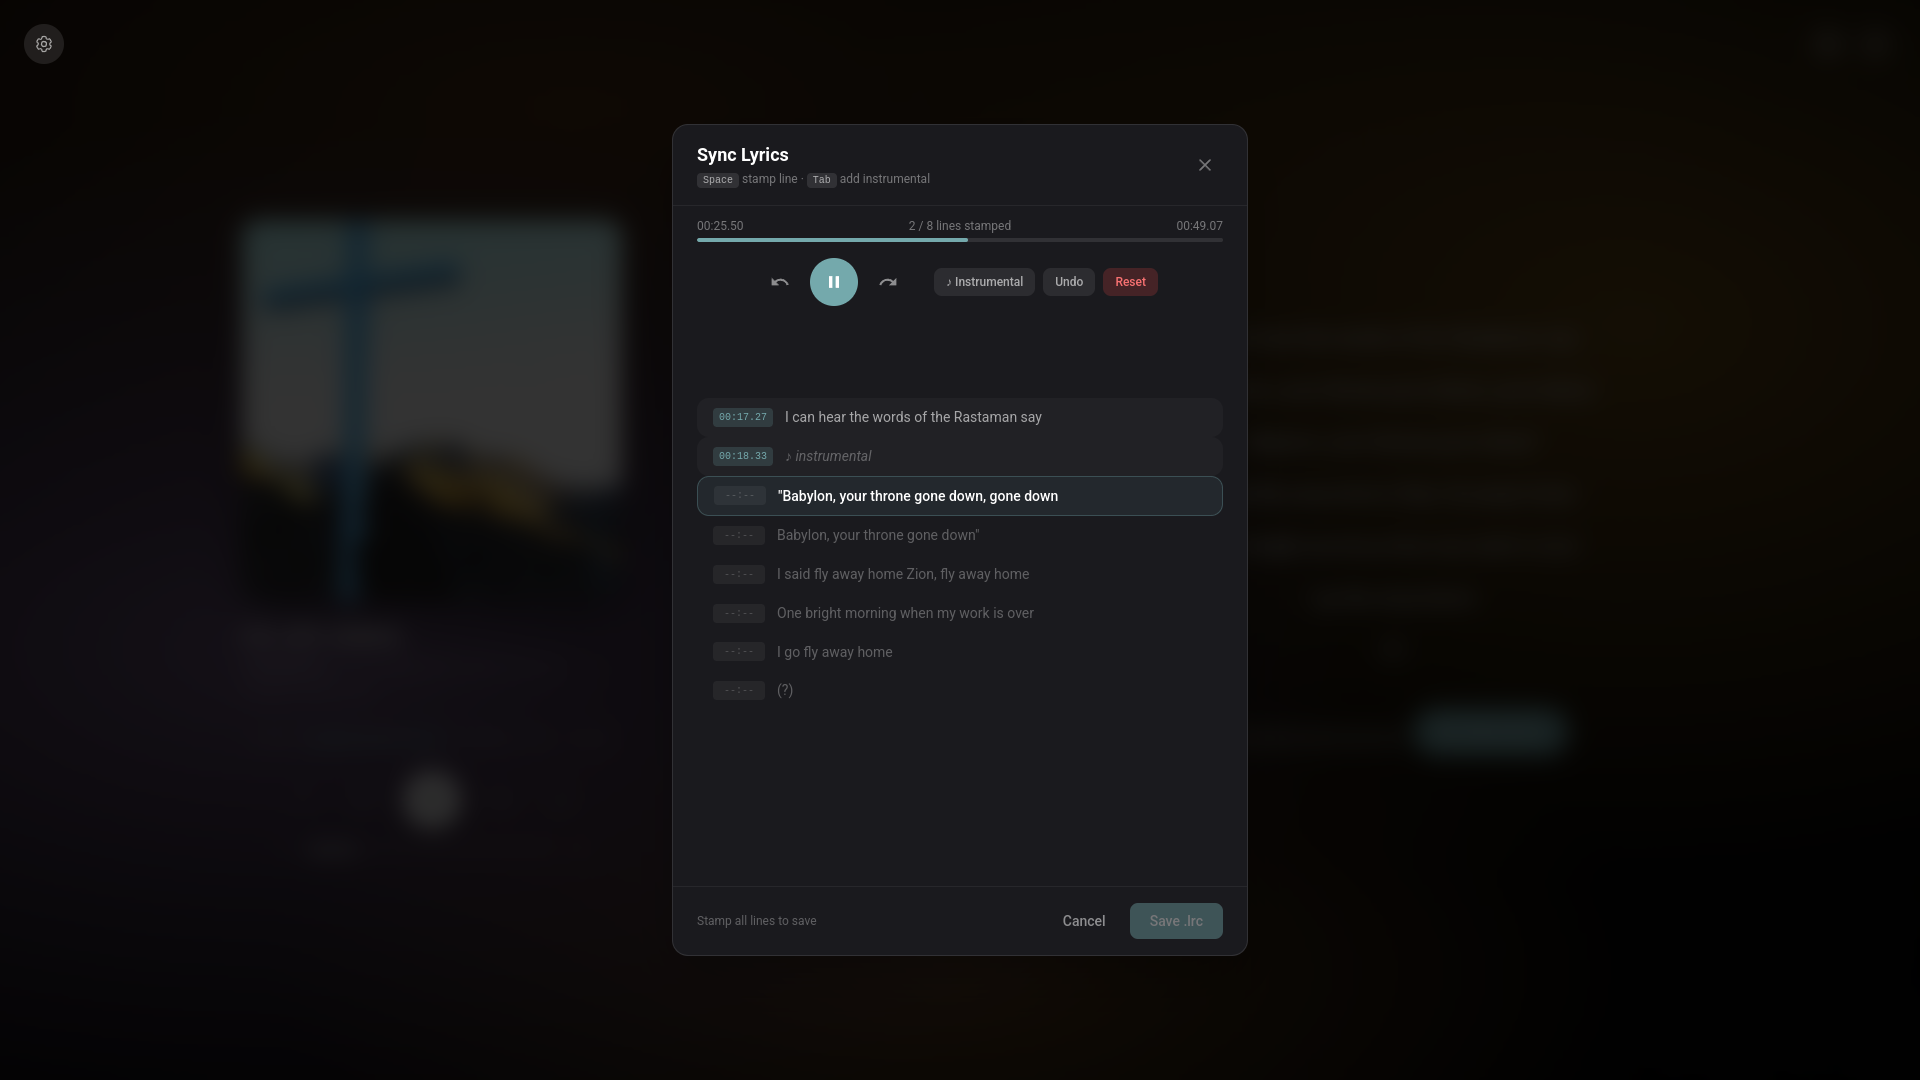
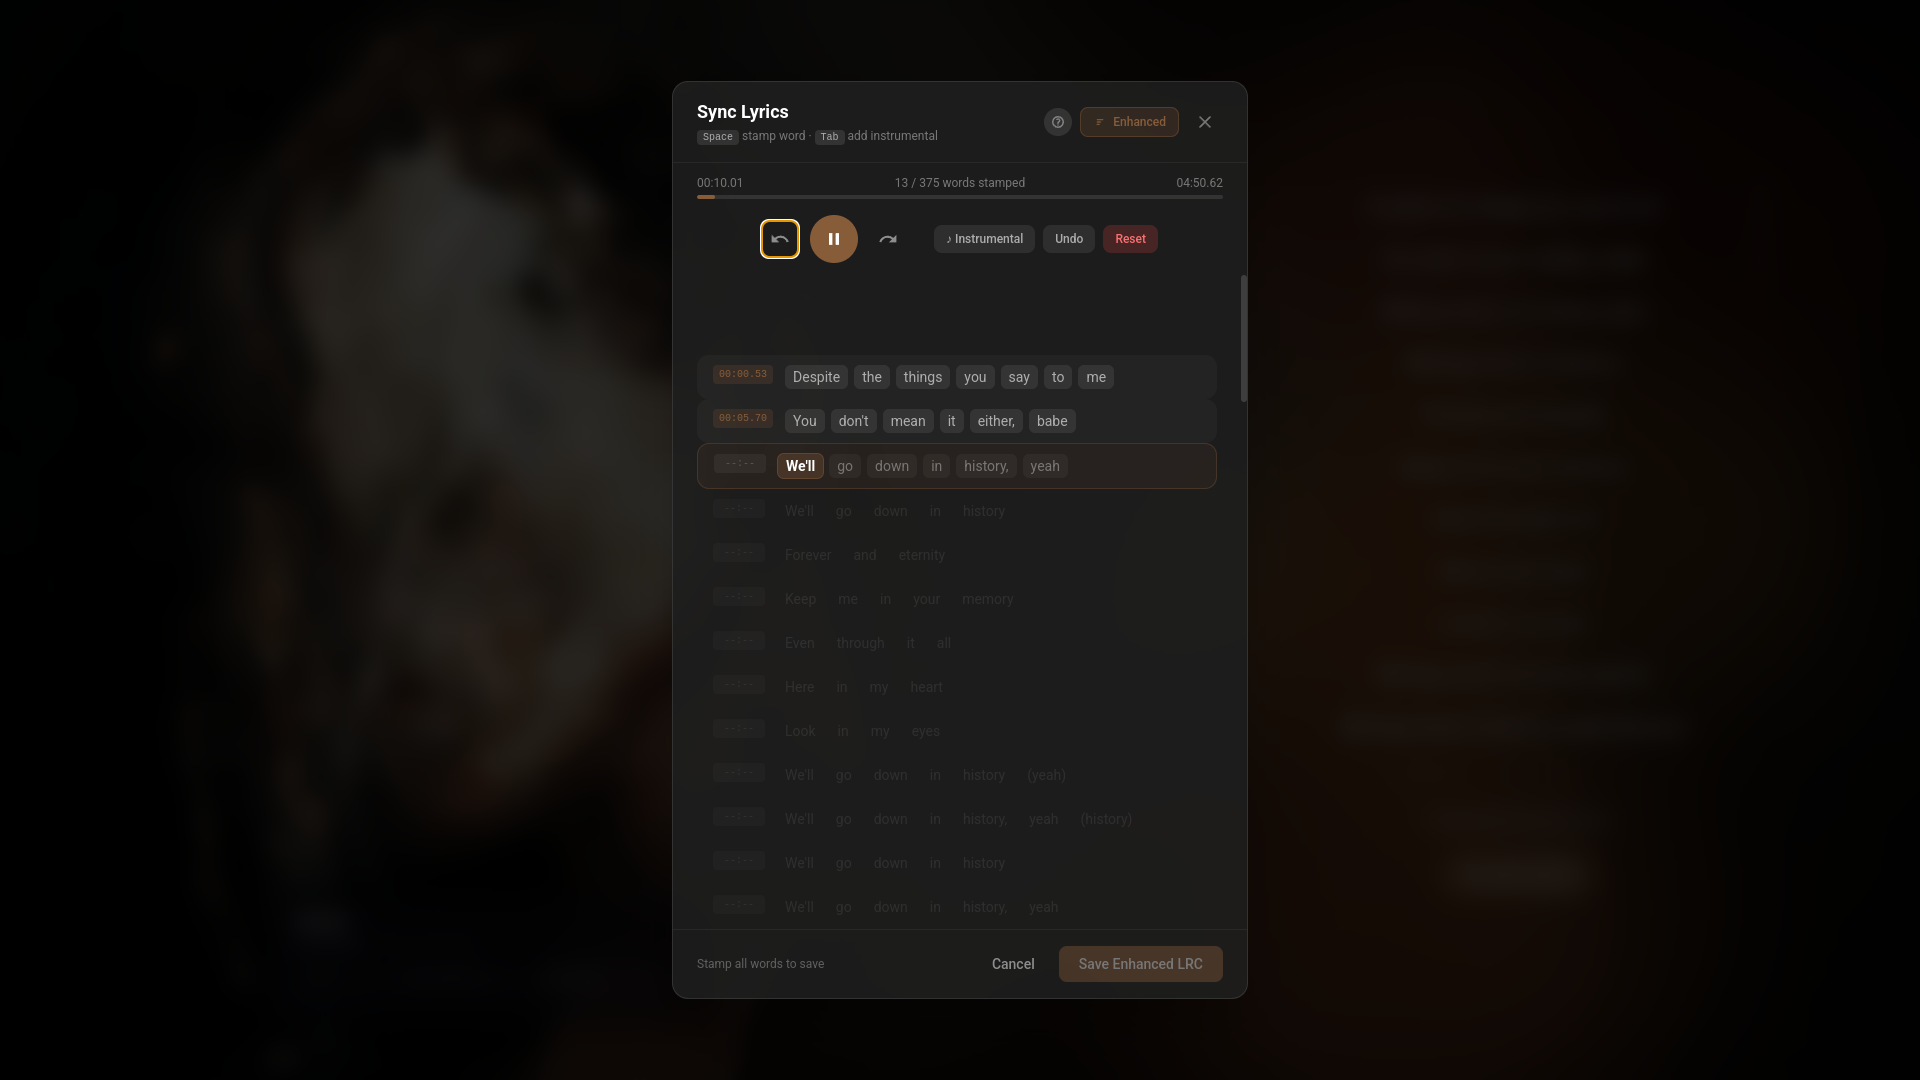
updated documentation

diff --git a/docs/plugins.md b/docs/plugins.md
@@ -192,17 +192,21 @@ Control and query playback state.
 | `addToQueue(tracks)` | `void` | Append tracks to the end of the queue |
 | `playNext(tracks)` | `void` | Insert tracks after the current track |
 | `playLater(tracks)` | `void` | Append tracks to the end of the queue |
+| `registerUrlResolver(fn)` | `void` | Register a function `(track) => Promise<string \| null>` that resolves a playback URL for a track (e.g. for remote/streaming sources) |
+| `unregisterUrlResolver(fn)` | `void` | Remove a previously registered URL resolver |
 
 ### aurora.library
 
-Access the music library (read-only).
+Access the music library.
 
-| Property | Type | Description |
+| Property / Method | Type | Description |
 |---|---|---|
 | `tracks` | `object[]` | All tracks in the library |
 | `albums` | `object[]` | All albums |
 | `artists` | `object[]` | All artists |
 | `searchQuery` | `string` | Get/set the current search query |
+| `addTracks(tracks)` | `void` | Inject plugin-provided virtual tracks into the library |
+| `removeTracks(trackIds)` | `void` | Remove previously injected plugin tracks by ID |
 
 ### aurora.playlists
 
@@ -226,6 +230,31 @@ Manage favorites.
 | `ids` | `Set<string>` | Set of favorite track IDs |
 | `isFavorite(trackId)` | `boolean` | Check if a track is favorited |
 | `toggle(trackId)` | `void` | Toggle favorite status |
+
+### aurora.tags
+
+Read and write the tag system. Tags can be applied to individual tracks or whole albums and are used in the library for filtering.
+
+| Method | Type | Description |
+|---|---|---|
+| `all` | `string[]` | All tags defined in the library |
+| `getTrack(trackId)` | `string[]` | Get tags for a single track |
+| `getAlbum(albumKey)` | `string[]` | Get tags for an album |
+| `albumKey(albumName, albumArtist)` | `string` | Compute the canonical key used to identify an album in the tag store |
+| `setTrack(ids, values)` | `Promise<void>` | Replace the tags on one or more tracks |
+| `setAlbum(albumKeys, values)` | `Promise<void>` | Replace the tags on one or more albums |
+| `addTrack(ids, values)` | `Promise<void>` | Add tags to one or more tracks (non-destructive) |
+| `addAlbum(albumKeys, values)` | `Promise<void>` | Add tags to one or more albums (non-destructive) |
+| `removeTrack(ids, values)` | `Promise<void>` | Remove specific tags from one or more tracks |
+| `removeAlbum(albumKeys, values)` | `Promise<void>` | Remove specific tags from one or more albums |
+
+```javascript
+// Tag the current track
+exports.onTrackChange = async function (track) {
+  const key = aurora.tags.albumKey(track.album, track.artist)
+  await aurora.tags.addTrack([track.id], ['plugin-processed'])
+}
+```
 
 ### aurora.theme
 
@@ -306,6 +335,8 @@ Access, fetch, parse, and save lyrics for any track.
 | `save(trackPath, lrcContent)` | `Promise<void>` | Save an LRC string to disk next to the audio file |
 | `parse(lrcContent)` | `LyricLine[]` | Parse raw LRC content into `[{ time, text }, ...]` (sorted by time) |
 | `findCurrentLine(lyrics, time)` | `number` | Given parsed lyrics and a time in seconds, return the index of the active line (−1 if before the first line) |
+| `findCurrentWord(line, time)` | `number` | Given a parsed line's words array and a time in seconds, return the index of the active word (enhanced LRC only) |
+| `isEnhancedLrc(content)` | `boolean` | Returns true if the LRC string contains word-level (enhanced) timestamps |
 | `offset` | `number` | Current lyrics timing offset in seconds (positive = lyrics appear earlier) |
 | `setOffset(seconds)` | `void` | Set the lyrics timing offset (persisted to settings) |
 | `getCurrentTrackLyrics()` | `Promise<object \| null>` | Convenience method — returns `{ synced, lines, raw }` for the playing track, or `null` |
@@ -386,6 +417,8 @@ Interact with the UI.
 | `getPlayerBarSlot(position?)` | Get a DOM element slot in the player bar (`'left'` or `'right'`, default `'right'`) |
 | `getImmersiveSlot(position?)` | Get a DOM slot in the fullscreen view (`'right'` or `'modern-right'`) |
 | `getImmersiveSettingsSlot()` | Get a DOM slot in the fullscreen settings panel |
+| `getAlbumDetailSlot()` | Get a DOM slot in the album detail page header (next to Play / Add to Queue). Has a `data-album-id` attribute that updates on navigation. Returns `null` when the page is not mounted. |
+| `getSearchSlot()` | Get a DOM slot at the bottom of the search results page. Has a `data-query` attribute kept in sync with the current query. Returns `null` when the search view is not mounted. |
 
 #### Sidebar items
 
@@ -552,6 +585,7 @@ Direct access to Electron IPC (advanced, unrestricted).
 |---|---|
 | `invoke(channel, ...args)` | Send an IPC invoke to the main process and await the result |
 | `send(channel, ...args)` | Send a one-way IPC message to the main process |
+| `on(channel, callback)` | Listen for events pushed from the main process on `channel`. Returns an unsubscribe function — call it in `onDeactivate`. |
 
 ### aurora.version
 
@@ -559,7 +593,7 @@ Direct access to Electron IPC (advanced, unrestricted).
 
 ## Lifecycle
 
-1. **Discovery** — Aurora scans the plugins directory for subfolders containing a `manifest.json`.
+1. **Discovery** — Aurora scans the plugins directory for subfolders containing a `manifest.json`. The search is recursive, so a plugin is found even if there is an extra wrapper directory between the top-level folder and the plugin files (e.g. when a ZIP is accidentally extracted into a subdirectory).
 2. **Enable** — When toggled on in Settings, the plugin's `main.js` is read from disk and executed via `new Function()`.
 3. **`onActivate()`** — Called immediately after the plugin code runs.
 4. **Hooks fire** — `onTrackChange`, `onPlay`, `onPause`, etc. fire as playback events occur.

diff --git a/README.md b/README.md
@@ -14,9 +14,9 @@ Aurora Player is a local music player for Linux and Windows, built with Electron
 |-------------|---------------|
 | ![Artist page](docs/images/artistpage.png) | ![Lyrics sync](docs/images/lyricssync.png) |
 
-| Queue |
+| Search |
 |-------|
-| ![Queue panel](docs/images/queue.png) |
+| ![Search Page](docs/images/search.png) |
 
 ## Features
 
@@ -24,8 +24,10 @@ Aurora Player is a local music player for Linux and Windows, built with Electron
 
 - Scan local folders for audio files (MP3, FLAC, OGG, WAV, M4A, AAC, OPUS, WMA)
 - Browse by songs, albums, artists, years, or folder structure
-- Detailed artist pages with bio, images, tags, active years, and country info
-- Real-time search across songs and albums
+- Detailed artist pages with bio, images, similar artists, active years, and country info
+- Tag-based filtering - apply custom tags to tracks and albums, filter views by tag
+- Auto-tagging for soundtracks and singles; separate soundtrack/singles library sections
+- Real-time search across songs and albums with a dedicated search view
 - Sort songs by title, artist, album, year, and duration
 - Sort albums by name, artist, year, and track count
 - Virtual scrolling for large libraries
@@ -34,6 +36,7 @@ Aurora Player is a local music player for Linux and Windows, built with Electron
 
 - Queue with play next, play later, shuffle, and repeat modes (off, all, one)
 - Waveform progress bar
+- Crossfade between tracks with adjustable duration
 - Audio output device selection
 - Volume normalization (dynamics compressor)
 - Drag-and-drop queue reordering
@@ -43,6 +46,8 @@ Aurora Player is a local music player for Linux and Windows, built with Electron
 ### Playlists and favorites
 
 - Create, rename, delete, and reorder playlists
+- Custom cover images for playlists
+- Import playlists from M3U files
 - Smart playlists with rule-based auto-population (genre, year, artist, album, title, BPM, etc.)
 - Mark songs as favorites with inline heart buttons
 - Multi-select with Ctrl+Click, Shift+Click, and Ctrl+A for bulk actions
@@ -59,8 +64,10 @@ Aurora Player is a local music player for Linux and Windows, built with Electron
 ### Lyrics
 
 - Automatic loading of local .lrc files alongside audio files
-- Online lyrics fetching via LRCLIB
+- Online lyrics fetching via LRCLIB with auto-save
+- Manual lyrics search from within the app
 - Synced lyrics display with manual time offset adjustment
+- Enhanced LRC support (word-level timestamps)
 - Built-in LRC syncer tool for creating lyrics from scratch
 
 ### Integrations
@@ -69,21 +76,23 @@ Aurora Player is a local music player for Linux and Windows, built with Electron
 - Last.fm and ListenBrainz scrobbling
 - Navidrome / Subsonic server streaming
 - MPRIS D-Bus integration on Linux (media keys, desktop controls)
+- Automatic Wayland / X11 display server detection on Linux
 - Remote control via LAN (mobile access with PIN-based authentication)
+- File association - open audio files directly with Aurora Player
 
 ### Theming
 
 - JSON-based theme system with full colour, glass, scrollbar, slider, and font overrides
 - Light and dark theme support via base colour axis inversion
 - Custom CSS injection on top of any theme
-- Hot-reload — themes are detected automatically when dropped into the themes folder
+- Hot-reload - themes are detected automatically when dropped into the themes folder
 - See [docs/themes.md](docs/themes.md) for the full format reference
 
 ### Plugins
 
 - JavaScript plugin system with lifecycle hooks (track change, play, pause, queue, seek, etc.)
 - Plugin API for controlling playback, library, playlists, favorites, themes, and UI
-- Settings schema — plugins declare typed settings and Aurora auto-renders the UI controls
+- Settings schema - plugins declare typed settings and Aurora auto-renders the UI controls
 - Sidebar items, player bar slots, and fullscreen slots for injecting custom UI
 - Per-plugin persistent key-value storage
 - Optional CSS injection for plugin-specific styles
@@ -92,6 +101,8 @@ Aurora Player is a local music player for Linux and Windows, built with Electron
 ### Other
 
 - First-time setup wizard
+- Aurora Stats - listening statistics with charts and artist breakdowns
+- Library sync - mirror playlists and favorites across machines via a shared folder, with auto-push/pull
 - Export and import settings, favorites, and playlists as a backup file
 - Context menus for songs, albums, and playlists
 - Cache management (covers, artist images, waveform data, animated covers)
@@ -191,12 +202,12 @@ Built packages are written to the `release/` directory.
 
 ## Documentation
 
-- [Themes](docs/themes.md) — theme format, CSS variable reference, and light/dark theme guide
-- [Plugins](docs/plugins.md) — plugin structure, manifest format, lifecycle hooks, and full API reference
-- [Example theme (Nord Dark)](docs/example-theme.json) — dark theme example
-- [Example theme (Aurora Light)](docs/example-light-theme.json) — light theme example
-- [Example plugin (Now Playing Logger)](docs/example-plugin/) — beginner plugin with sidebar items, toasts, and settings
-- [Example plugin (Quality Badge)](docs/example-quality-badge-plugin/) — intermediate plugin with IPC calls, player-bar/immersive slots, and DOM observers
+- [Themes](docs/themes.md) - theme format, CSS variable reference, and light/dark theme guide
+- [Plugins](docs/plugins.md) - plugin structure, manifest format, lifecycle hooks, and full API reference
+- [Example theme (Nord Dark)](docs/example-theme.json) - dark theme example
+- [Example theme (Aurora Light)](docs/example-light-theme.json) - light theme example
+- [Example plugin (Now Playing Logger)](docs/example-plugin/) - beginner plugin with sidebar items, toasts, and settings
+- [Example plugin (Quality Badge)](docs/example-quality-badge-plugin/) - intermediate plugin with IPC calls, player-bar/immersive slots, and DOM observers
 
 ## Project structure
 
@@ -221,7 +232,7 @@ build/             App icons (PNG, ICO)
 
 ## Tech stack
 
-- Electron 28
+- Electron 33
 - Vue 3.4 (Composition API)
 - Pinia 2.1
 - Vue Router 4